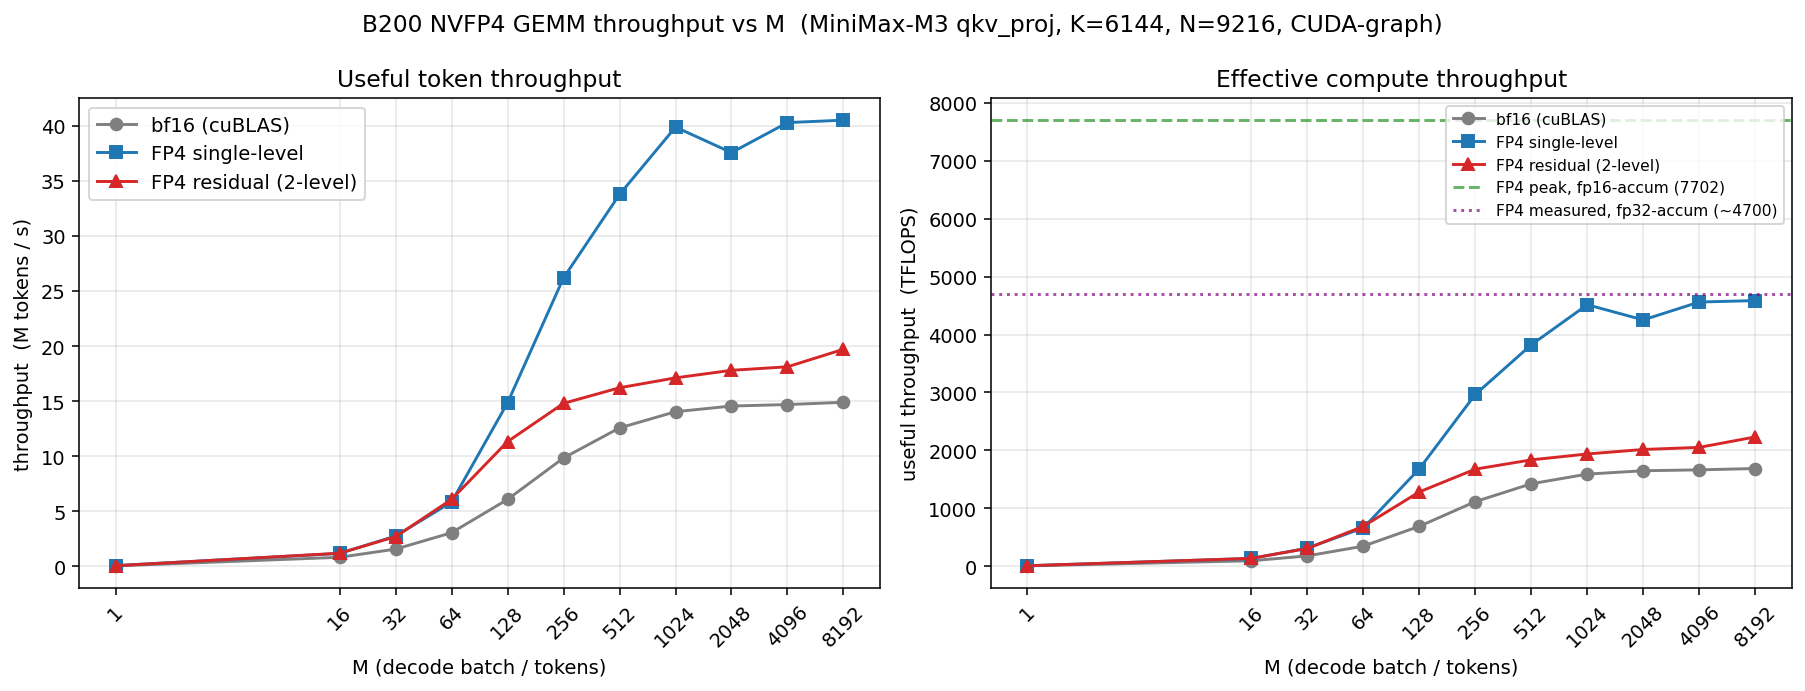
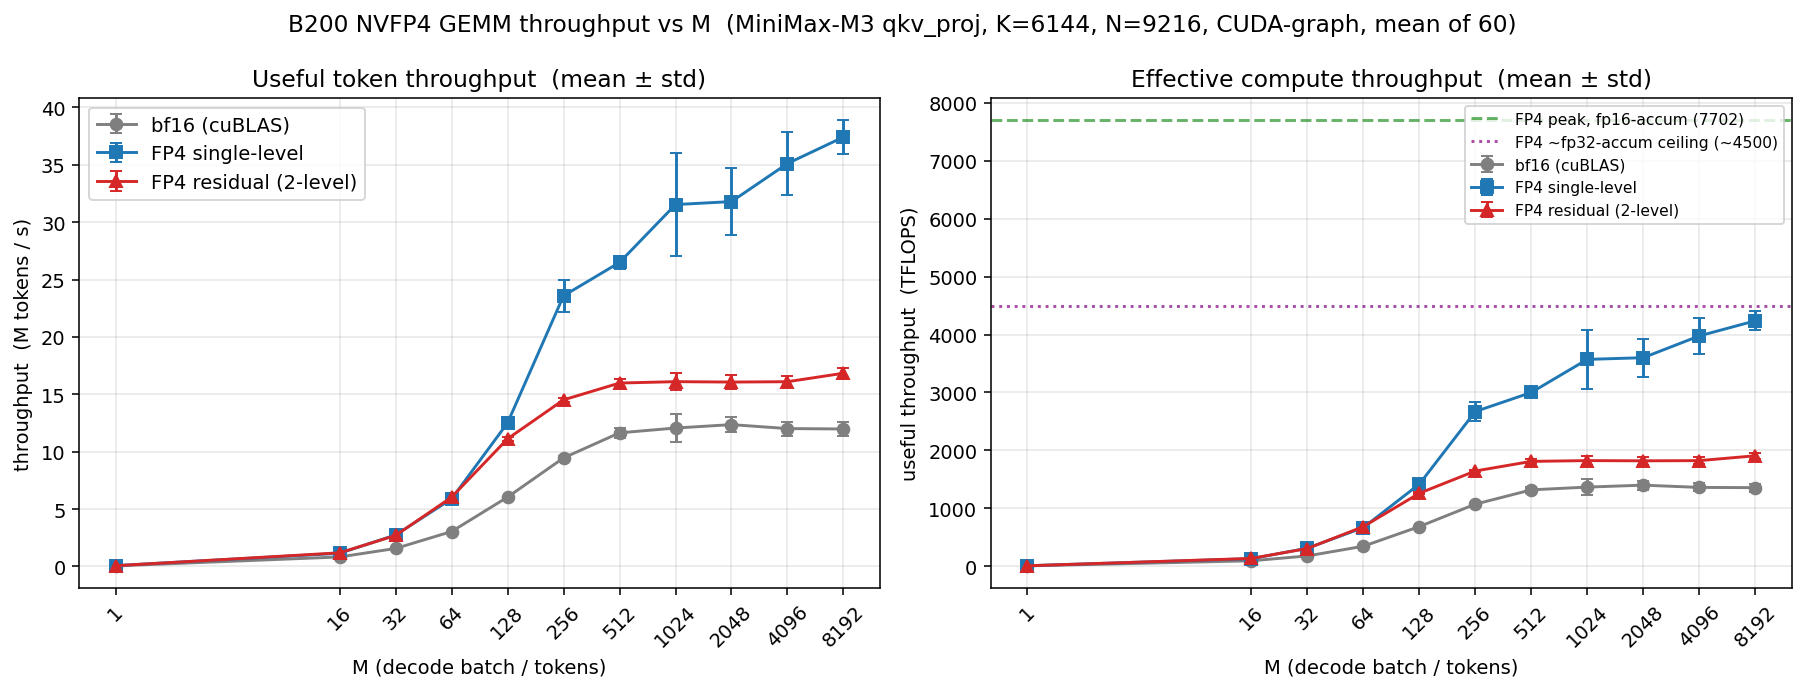
Re-plot throughput curve with mean +/- std (was min)
bench_throughput_curve.py now reports mean+std over 60 windows (was single min);
plot uses mean with error bars. Removes the spurious M=2048 dip the min sampling
produced; curves are smooth/monotonic, error bars widen at large M from clock
variation. FP4 plateaus ~40-47% of peak (fp32-accum ceiling).

diff --git a/tests/plot_throughput.py b/tests/plot_throughput.py
@@ -3,38 +3,52 @@ matplotlib.use("Agg")
 import matplotlib.pyplot as plt
 
 K, N = 6144, 9216
-M, tb, tf, tr = [], [], [], []
-for line in open("/tmp/thr_data.txt"):
-    if line.startswith("DATA,"):
-        _, m, a, b, c = line.strip().split(",")
-        M.append(int(m)); tb.append(float(a)); tf.append(float(b)); tr.append(float(c))
+M = []
+d = {"bf16": ([], []), "fp4": ([], []), "resid": ([], [])}
+for line in open("/tmp/thr_data2.txt"):
+    if not line.startswith("DATA,"):
+        continue
+    p = line.strip().split(",")
+    m = int(p[1]); M.append(m)
+    d["bf16"][0].append(float(p[2])); d["bf16"][1].append(float(p[3]))
+    d["fp4"][0].append(float(p[4]));  d["fp4"][1].append(float(p[5]))
+    d["resid"][0].append(float(p[6])); d["resid"][1].append(float(p[7]))
 
-def toks(ts):   # Mtokens/s  (M useful tokens / latency_ms)
-    return [m / t / 1e3 for m, t in zip(M, ts)]
-def tflops(ts): # useful TFLOPS = 2*M*K*N / latency
-    return [2.0 * m * K * N / (t * 1e-3) / 1e12 for m, t in zip(M, ts)]
+styles = {"bf16": ("bf16 (cuBLAS)", "tab:gray", "o"),
+          "fp4": ("FP4 single-level", "tab:blue", "s"),
+          "resid": ("FP4 residual (2-level)", "tab:red", "^")}
+
+def toks(mean, std):           # M tokens / s -> Mtok/s, with propagated error
+    y = [m / t / 1e3 for m, t in zip(M, mean)]
+    e = [yi * (s / t) for yi, t, s in zip(y, mean, std)]
+    return y, e
+
+def tflops(mean, std):         # useful TFLOPS = 2*M*K*N / latency
+    y = [2.0 * m * K * N / (t * 1e-3) / 1e12 for m, t in zip(M, mean)]
+    e = [yi * (s / t) for yi, t, s in zip(y, mean, std)]
+    return y, e
 
 fig, ax = plt.subplots(1, 2, figsize=(13, 5))
 
-for y, lab, c, mk in [(toks(tb), "bf16 (cuBLAS)", "tab:gray", "o"),
-                      (toks(tf), "FP4 single-level", "tab:blue", "s"),
-                      (toks(tr), "FP4 residual (2-level)", "tab:red", "^")]:
-    ax[0].plot(M, y, marker=mk, label=lab, color=c)
+for key in ("bf16", "fp4", "resid"):
+    lab, c, mk = styles[key]
+    y, e = toks(*d[key])
+    ax[0].errorbar(M, y, yerr=e, marker=mk, label=lab, color=c, capsize=3)
 ax[0].set_xscale("log", base=2); ax[0].set_xticks(M); ax[0].set_xticklabels(M, rotation=45)
 ax[0].set_xlabel("M (decode batch / tokens)"); ax[0].set_ylabel("throughput  (M tokens / s)")
-ax[0].set_title("Useful token throughput"); ax[0].grid(True, alpha=0.3); ax[0].legend()
+ax[0].set_title("Useful token throughput  (mean ± std)"); ax[0].grid(True, alpha=0.3); ax[0].legend()
 
-for y, lab, c, mk in [(tflops(tb), "bf16 (cuBLAS)", "tab:gray", "o"),
-                      (tflops(tf), "FP4 single-level", "tab:blue", "s"),
-                      (tflops(tr), "FP4 residual (2-level)", "tab:red", "^")]:
-    ax[1].plot(M, y, marker=mk, label=lab, color=c)
+for key in ("bf16", "fp4", "resid"):
+    lab, c, mk = styles[key]
+    y, e = tflops(*d[key])
+    ax[1].errorbar(M, y, yerr=e, marker=mk, label=lab, color=c, capsize=3)
 ax[1].axhline(7702, ls="--", color="green", alpha=0.6, label="FP4 peak, fp16-accum (7702)")
-ax[1].axhline(4700, ls=":", color="purple", alpha=0.7, label="FP4 measured, fp32-accum (~4700)")
+ax[1].axhline(4500, ls=":", color="purple", alpha=0.7, label="FP4 ~fp32-accum ceiling (~4500)")
 ax[1].set_xscale("log", base=2); ax[1].set_xticks(M); ax[1].set_xticklabels(M, rotation=45)
 ax[1].set_xlabel("M (decode batch / tokens)"); ax[1].set_ylabel("useful throughput  (TFLOPS)")
-ax[1].set_title("Effective compute throughput"); ax[1].grid(True, alpha=0.3); ax[1].legend(fontsize=8)
+ax[1].set_title("Effective compute throughput  (mean ± std)"); ax[1].grid(True, alpha=0.3); ax[1].legend(fontsize=8)
 
-fig.suptitle(f"B200 NVFP4 GEMM throughput vs M  (MiniMax-M3 qkv_proj, K={K}, N={N}, CUDA-graph)", fontsize=12)
+fig.suptitle(f"B200 NVFP4 GEMM throughput vs M  (MiniMax-M3 qkv_proj, K={K}, N={N}, CUDA-graph, mean of 60)", fontsize=12)
 fig.tight_layout()
-fig.savefig("/tmp/throughput_vs_M.png", dpi=140, bbox_inches="tight")
-print("saved /tmp/throughput_vs_M.png")
+fig.savefig("/tmp/throughput_vs_M_mean.png", dpi=140, bbox_inches="tight")
+print("saved")

diff --git a/tests/bench_throughput_curve.py b/tests/bench_throughput_curve.py
@@ -4,6 +4,8 @@
 Shape: MiniMax-M3 qkv_proj (K=6144, N=9216). Weight pre-quantized (offline).
 """
 
+import statistics
+
 import torch
 
 from nvfp.fp4_gemm import global_scale
@@ -13,7 +15,9 @@ K, N = 6144, 9216
 MS = [1, 16, 32, 64, 128, 256, 512, 1024, 2048, 4096, 8192]
 
 
-def graph_bench(fn, inner=30, iters=30, warmup=5):
+def graph_bench(fn, inner=30, iters=60, warmup=10):
+    """Return (mean_ms, std_ms) over `iters` windows, each averaging `inner`
+    graph replays."""
     s = torch.cuda.Stream()
     s.wait_stream(torch.cuda.current_stream())
     with torch.cuda.stream(s):
@@ -28,14 +32,14 @@ def graph_bench(fn, inner=30, iters=30, warmup=5):
     torch.cuda.synchronize()
     e0 = torch.cuda.Event(enable_timing=True)
     e1 = torch.cuda.Event(enable_timing=True)
-    best = float("inf")
+    ts = []
     for _ in range(iters):
         e0.record()
         g.replay()
         e1.record()
         torch.cuda.synchronize()
-        best = min(best, e0.elapsed_time(e1) / inner)
-    return best
+        ts.append(e0.elapsed_time(e1) / inner)
+    return statistics.mean(ts), statistics.pstdev(ts)
 
 
 def main():
@@ -45,8 +49,8 @@ def main():
     w_gs = global_scale(w)
     w_q, w_sf = scaled_fp4_quant(w, w_gs)
 
-    print(f"# shape qkv_proj K={K} N={N}")
-    print("# DATA,M,t_bf16_ms,t_fp4_ms,t_resid_ms")
+    print(f"# shape qkv_proj K={K} N={N}  (mean +/- std over 60 windows)")
+    print("# DATA,M,bf16_mean,bf16_std,fp4_mean,fp4_std,resid_mean,resid_std  (ms)")
     for M in MS:
         a = torch.randn(M, K, dtype=torch.bfloat16, device=dev) * 0.5
         a_gs = global_scale(a)
@@ -54,15 +58,15 @@ def main():
         aq, asf = scaled_fp4_quant(a, a_gs)
         aqr, asfr = scaled_fp4_quant_residual(a, a_gs)
 
-        tb = graph_bench(lambda: torch.matmul(a, w.t()))
-        tf = graph_bench(lambda: cutlass_scaled_fp4_mm(aq, w_q, asf, w_sf, al, torch.bfloat16))
+        tb, sb = graph_bench(lambda: torch.matmul(a, w.t()))
+        tf, sf = graph_bench(lambda: cutlass_scaled_fp4_mm(aq, w_q, asf, w_sf, al, torch.bfloat16))
 
         def resid():
             o2 = cutlass_scaled_fp4_mm(aqr, w_q, asfr, w_sf, al, torch.bfloat16)
             return o2[:M] + o2[M:]
 
-        tr = graph_bench(resid)
-        print(f"DATA,{M},{tb:.6f},{tf:.6f},{tr:.6f}", flush=True)
+        tr, sr = graph_bench(resid)
+        print(f"DATA,{M},{tb:.6f},{sb:.6f},{tf:.6f},{sf:.6f},{tr:.6f},{sr:.6f}", flush=True)
 
 
 if __name__ == "__main__":
